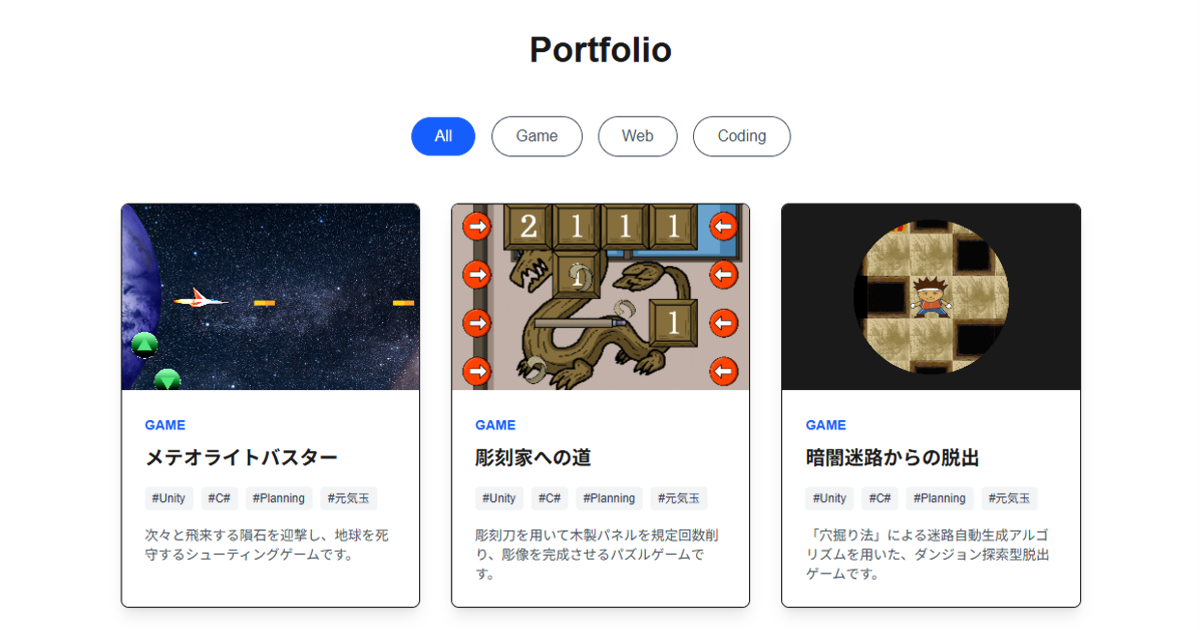
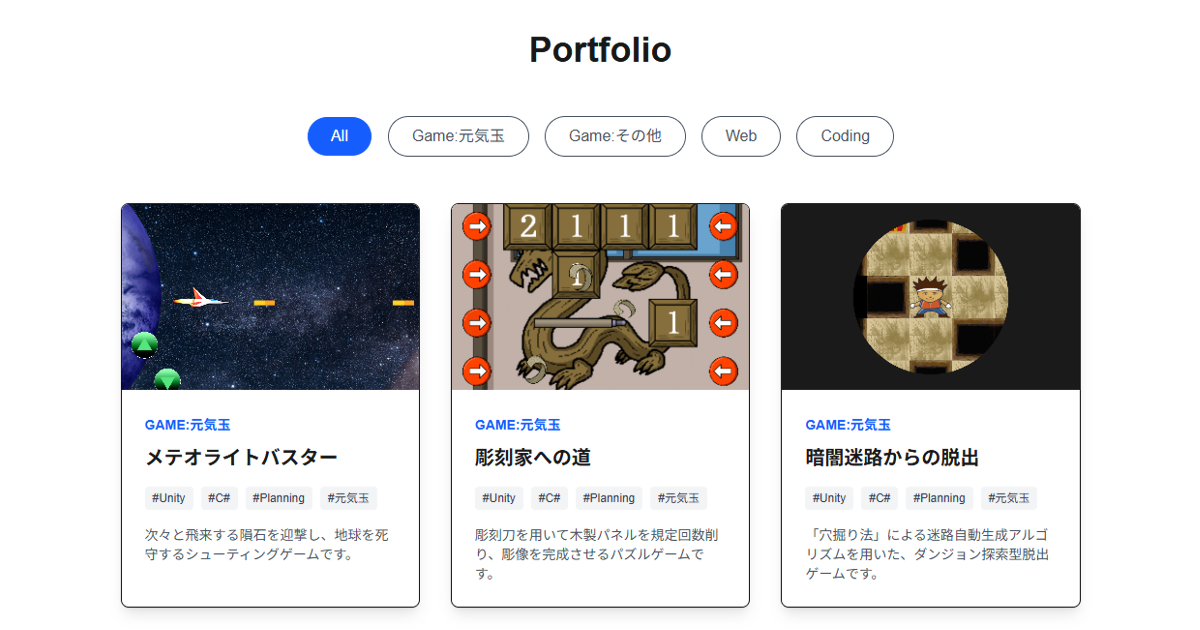
OGP画像修正/Gameカテゴリを元気玉とその他に分離

diff --git a/app/page.tsx b/app/page.tsx
@@ -20,7 +20,7 @@ export default function Home() {
 
         {/* タブボタン */}
         <div className="flex justify-center gap-4 mb-12">
-          {["All", "Game", "Web", "Coding"].map((cat) => (
+          {["All", "Game:元気玉", "Game:その他", "Web", "Coding"].map((cat) => (
             <button
               key={cat}
               onClick={() => setFilter(cat as any)}
